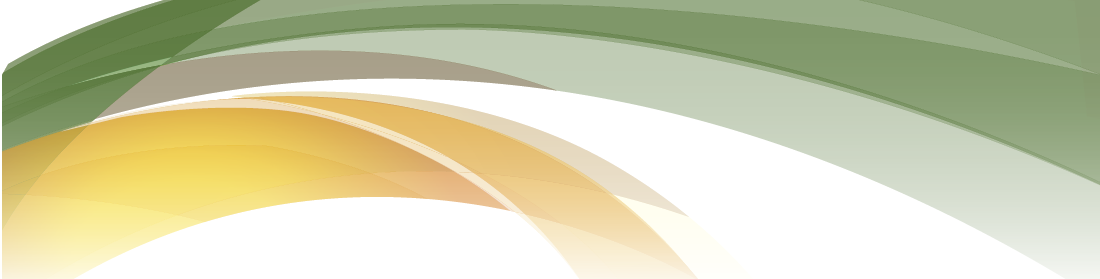
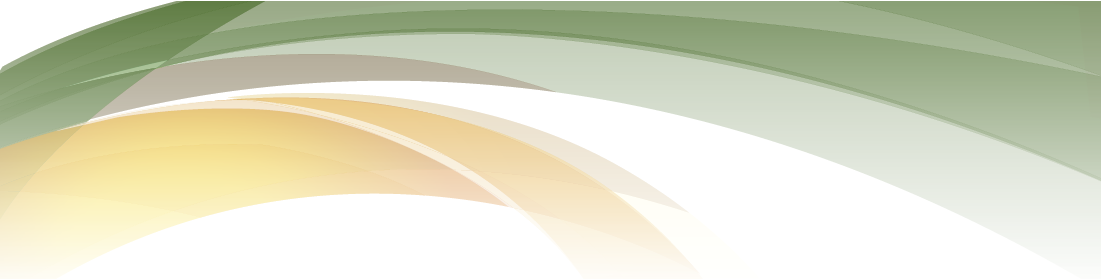
Working on CSS... Improving footer background, and header. Also, improving activity list table. Still more work to do.

diff --git a/ccafs-ap/src/main/webapp/css/reporting/customDataTable.css b/ccafs-ap/src/main/webapp/css/reporting/customDataTable.css
@@ -1,36 +1,91 @@
+/* Search Bar */
+.dataTables_filter {
+  margin-top: 20px;
+}
 
-table.dataTable tr.odd { background-color: #F1D023; }
-table.dataTable tr.even { background-color: white; }
+/* Table */
+table.dataTable tr.odd {
+  background-color: #F1D023;
+}
 
-table.dataTable tr.odd td.sorting_1 { background-color: #F1D023; }
-table.dataTable tr.odd td.sorting_2 { background-color: #F1D023; }
-table.dataTable tr.odd td.sorting_3 { background-color: #F1D023; }
-table.dataTable tr.even td.sorting_1 { background-color: white; }
-table.dataTable tr.even td.sorting_2 { background-color: white; }
-table.dataTable tr.even td.sorting_3 { background-color: white; }
+table.dataTable tr.even {
+  background-color: white;
+}
+
+table.dataTable tr.odd td.sorting_1 {
+  background-color: #F1D023;
+}
+
+table.dataTable tr.odd td.sorting_2 {
+  background-color: #F1D023;
+}
+
+table.dataTable tr.odd td.sorting_3 {
+  background-color: #F1D023;
+}
+
+table.dataTable tr.even td.sorting_1 {
+  background-color: white;
+}
+
+table.dataTable tr.even td.sorting_2 {
+  background-color: white;
+}
+
+table.dataTable tr.even td.sorting_3 {
+  background-color: white;
+}
 
 table.dataTable thead th {
   text-align: center;
+  border: 1px solid #000000;
+  font-size: 13px;
+  vertical-align: middle;
 }
 
-table.dataTable td {  border: 1px solid black; }
+table.dataTable td {
+  border: 1px solid black;
+}
 
 /*
  * Pagination
  */
+.dataTables_paginate {
+  border-bottom: 1px solid black;
+}
 
-.paginate_enabled_previous { background: url('../../images/libs/dataTables/back_enabled.png') no-repeat top left; }
-.paginate_enabled_previous:hover { background: url('../../images/libs/dataTables/back_enabled.png') no-repeat top left; }
-.paginate_disabled_previous { background: url('../../images/libs/dataTables/back_disabled.png') no-repeat top left; }
+.paginate_enabled_previous {
+  background: url('../../images/libs/dataTables/back_enabled.png')
+    no-repeat top left;
+}
 
-.paginate_enabled_next { background: url('../../images/libs/dataTables/forward_enabled.png') no-repeat top right; }
-.paginate_enabled_next:hover { background: url('../../images/libs/dataTables/forward_enabled.png') no-repeat top right; }
-.paginate_disabled_next { background: url('../../images/libs/dataTables/forward_disabled.png') no-repeat top right; }
+.paginate_enabled_previous:hover {
+  background: url('../../images/libs/dataTables/back_enabled.png')
+    no-repeat top left;
+}
+
+.paginate_disabled_previous {
+  background: url('../../images/libs/dataTables/back_disabled.png')
+    no-repeat top left;
+}
+
+.paginate_enabled_next {
+  background: url('../../images/libs/dataTables/forward_enabled.png')
+    no-repeat top right;
+}
+
+.paginate_enabled_next:hover {
+  background: url('../../images/libs/dataTables/forward_enabled.png')
+    no-repeat top right;
+}
+
+.paginate_disabled_next {
+  background: url('../../images/libs/dataTables/forward_disabled.png')
+    no-repeat top right;
+}
 
 /* Two button pagination - previous / next */
-
-.paginate_enabled_previous,
-.paginate_enabled_next {
+.paginate_enabled_previous,.paginate_enabled_next {
   height: 19px;
   float: left;
   cursor: pointer;
@@ -38,24 +93,44 @@ table.dataTable td {  border: 1px solid black; }
   color: #366506 !important;
 }
 
-.paginate_disabled_previous,
-.paginate_disabled_next{
+.paginate_disabled_previous,.paginate_disabled_next {
   height: 19px;
   float: left;
-  cursor: pointer !important;  
+  cursor: pointer !important;
   *cursor: pointer;
-  color: #111 !important;
-  text-decoration: none !important;  
+  color: #666666 !important;
+  text-decoration: none !important;
 }
-
 
 /*
  * Sorting
  */
-.sorting { background: url('../../images/libs/dataTables/sort_both.png') no-repeat center right; }
-.sorting_asc { background: url('../../images/libs/dataTables/sort_asc.png') no-repeat center right; }
-.sorting_desc { background: url('../../images/libs/dataTables/sort_desc.png') no-repeat center right; }
+.sorting {
+  background: url('../../images/libs/dataTables/sort_both.png') no-repeat
+    center right;
+}
 
-.sorting_asc_disabled { background: url('../../images/libs/dataTables/sort_asc_disabled.png') no-repeat center right; }
-.sorting_desc_disabled { background: url('../../images/libs/dataTables/sort_desc_disabled.png') no-repeat center right; }
+.sorting_asc {
+  background: url('../../images/libs/dataTables/sort_asc.png') no-repeat
+    center right;
+}
 
+.sorting_desc {
+  background: url('../../images/libs/dataTables/sort_desc.png') no-repeat
+    center right;
+}
+
+.sorting_asc_disabled {
+  background: url('../../images/libs/dataTables/sort_asc_disabled.png')
+    no-repeat center right;
+}
+
+.sorting_desc_disabled {
+  background: url('../../images/libs/dataTables/sort_desc_disabled.png')
+    no-repeat center right;
+}
+
+/* Info */
+.dataTables_info {
+  font-style: italic;
+}

diff --git a/ccafs-ap/src/main/webapp/css/global/global.css b/ccafs-ap/src/main/webapp/css/global/global.css
@@ -95,12 +95,18 @@ body {
   background-image: url("../../images/global/header-background.png");
   background-repeat: no-repeat;
   display: inline-block;
-  margin-top: 30px;
-  margin-bottom: 15px;
-  height: 279px;
   width: 1100px;
+  height: 100%;
   text-align: left;
   display: inline-block;
+  margin: 30px auto;
+  
+  /* SHADOW */
+  -webkit-box-shadow: 2px 7px 29px #5A5E59; /* Safari and Chrome */
+  box-shadow: 2px 7px 29px #5A5E59;
+  /* For IE 8 */
+  /*-ms-filter: "progid:DXImageTransform.Microsoft.Glow(Color=#5A5E59,Strength=10)";*/
+  
 }
 
 .popup_container {
@@ -149,8 +155,18 @@ body {
   float: left;
 }
 
+#mainLogo img {
+  margin-left: 75px;
+  margin-top: 20px;
+}
+
 #ccafsLogo {
   float: left;
+}
+
+#ccafsLogo img {
+  margin-left: 80px;
+  margin-top: 20px;
 }
 
 /************* 3. MAIN MENU ***************/
@@ -158,22 +174,27 @@ nav#mainMenu {
   clear: both;
   list-style-type: none;
   text-align: center;
+  margin-top: 15px;
 }
 
 nav#mainMenu ul a {
   color: white;
   display: inline-block;
   text-align: center;
-  width: 150px;
+  width: 180px;
 }
 
 nav#mainMenu ul a li {
-  color: #7F7F7F;
   background-color: #F2F2F2;
-  padding: 10px;
+  color: #7F7F7F;
+  display: table-cell;
+  font-size: 15px;  
   margin-bottom: 20px;
   margin-top: 20px;
-  font-weight: bold;
+  padding: 10px;
+  vertical-align: middle;
+  width: 155px;
+  border: 1px solid #A6A6A6;
 }
 
 nav#mainMenu ul a li.currentSection {
@@ -184,11 +205,11 @@ nav#mainMenu ul a li.currentSection {
 /*************** SECONDARY MENU ***********/
 nav#secondaryMenu {
   background-color: #F2F2F2;
+  border: 1px solid #A6A6A6;
   float: left;
-  margin-left: 10px;
   margin-top: 20px;
   padding: 10px;
-  width: 150px;
+  width: 163px;
 }
 
 nav#secondaryMenu ul {
@@ -199,7 +220,7 @@ nav#secondaryMenu ul a {
   display: list-item;
   font-weight: bold;
   height: 35px;
-  margin-left: -17px;
+  margin-left: -18px;
   padding-bottom: 5px;
   padding-left: 25px;
   padding-top: 5px;
@@ -210,6 +231,7 @@ nav#secondaryMenu ul a.currentReportingSection {
   color: white;
   background-image: url("../../images/global/reportingMenuMarker.png");
   background-repeat: no-repeat;
+  width: 200px;
 }
 
 nav#secondaryMenu ul a li {
@@ -228,18 +250,14 @@ nav#secondaryMenu ul a li {
 
 /*************** BODY ****************/
 .content {
-  width: 1060px;
-  margin-top: 20px;
-  margin-bottom: 20px;
+  margin: 10px 60px;
   padding: 20px;
 }
 
 .halfContent {
   float: right;
-  width: 830px;
-  margin-top: 20px;
-  margin-bottom: 20px;
   padding: 10px;
+  width: 700px;
 }
 
 .content a,.halfContent a,.content a:hover,.halfContent a:hover {
@@ -251,7 +269,7 @@ nav#secondaryMenu ul a li {
   color: #663300;
   font-size: 25px;
   font-weight: normal;
-  margin-bottom: 10px;
+  margin-bottom: 20px;
 }
 
 .halfContent h1 {
@@ -346,6 +364,11 @@ nav#secondaryMenu ul a li {
 
 /************ ACTIVITIES ***************/
 /* Activity List */
+#activityList {
+  display: inline-block;
+  margin-top: 20px;
+}
+
 #activityList #id {
   width: 60px;
 }
@@ -419,10 +442,11 @@ nav#secondaryMenu ul a li {
 
 /*************** FOOTER ****************/
 #footerContainer {
-  background-color: #EEEEEE;
-  height: 100px;
+  background-image: url("../../images/global/footer-background.png");
+  background-position: right center;
+  background-repeat: no-repeat;
+  height: 200px;
   margin-top: 30px;
-  margin-bottom: 30px;
   text-align: center;
   clear: both;
 }

diff --git a/ccafs-ap/src/main/java/org/cgiar/ccafs/ap/action/home/LoginAction.java b/ccafs-ap/src/main/java/org/cgiar/ccafs/ap/action/home/LoginAction.java
@@ -53,6 +53,7 @@ public class LoginAction extends BaseAction {
         System.out.println("isLogged(): " + this.isLogged());
       } else {
         LOG.info("User " + user.getEmail() + " tried to logged in but failed.");
+        return INPUT;
       }
     }
     return SUCCESS;
